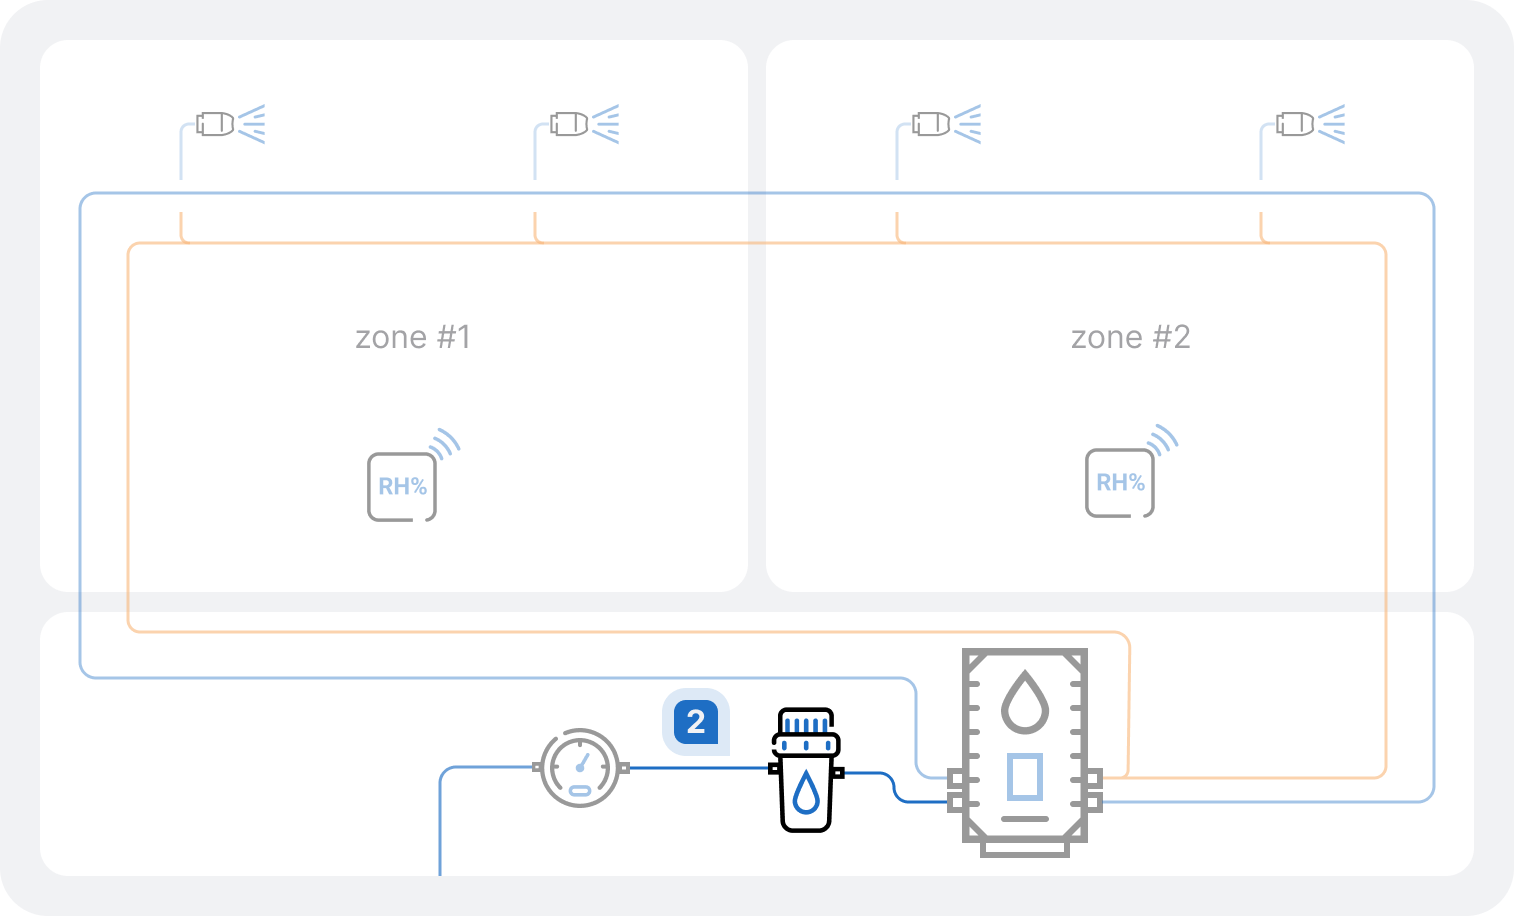
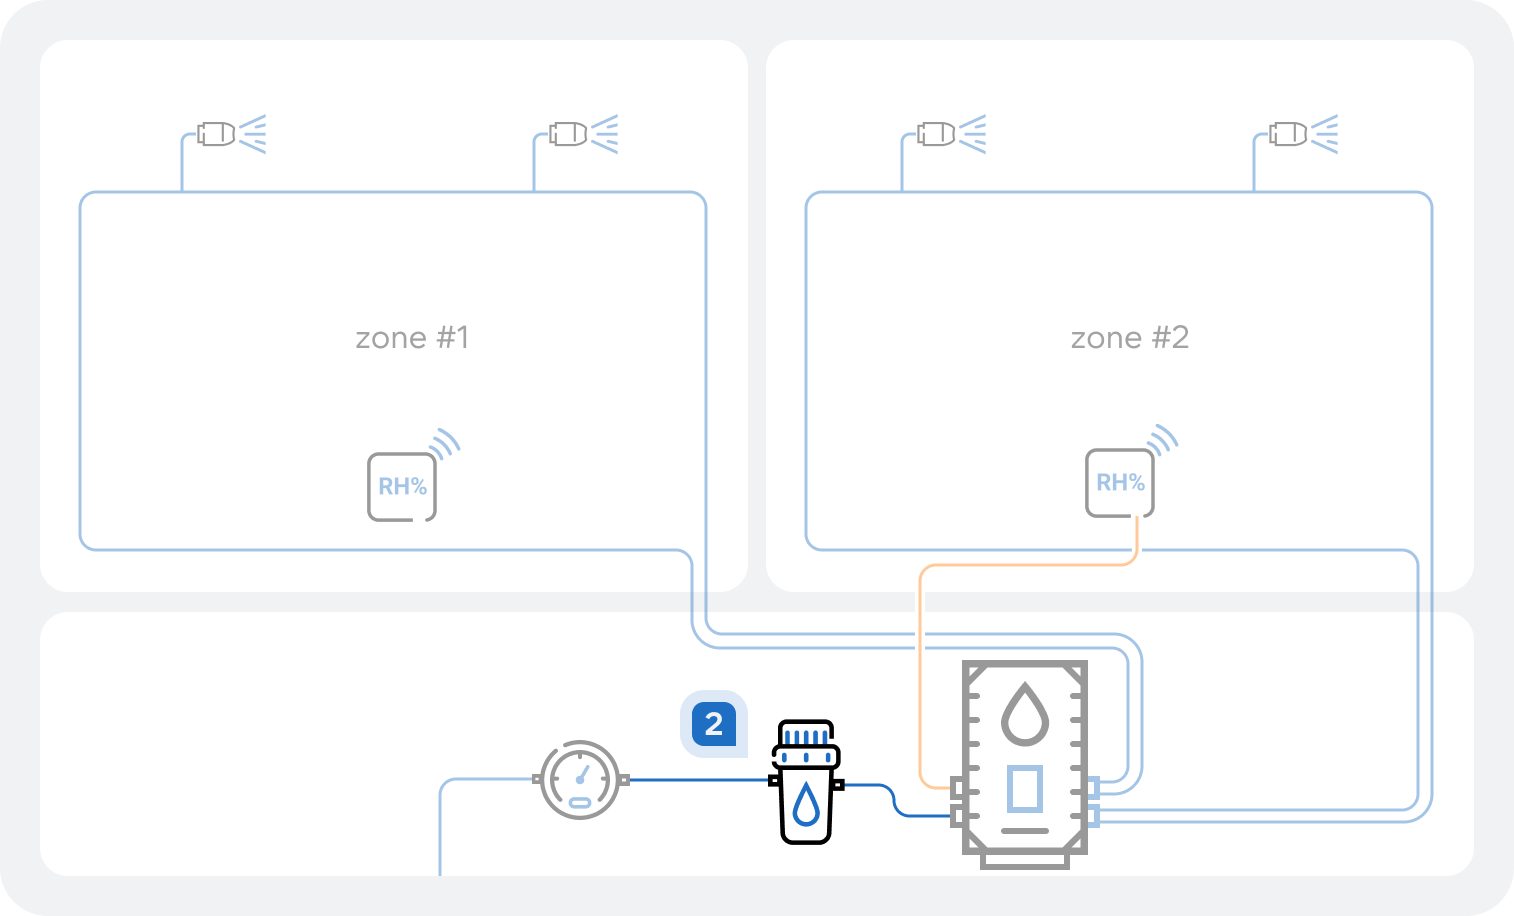
feat: change diagram info / remove component's forceUpdate method

Changed region(s): [[0.031, 0.214, 0.9624, 0.9476], [0.0621, 0.1223, 0.9313, 0.214], [0.0931, 0.2445, 0.9003, 0.2751]]

diff --git a/components/widgets/diagram/model/mock-data.ts b/components/widgets/diagram/model/mock-data.ts
@@ -5,7 +5,7 @@ export const DiagramFirstData = [
     description:
       '<p>Water is supplied automatically from the water supply.</p>',
     title: '<h3></h3>',
-    image: '/images/system/diagram1.png'
+    image: '/images/system/diagram1-1.png'
   },
   {
     id: 2,
@@ -13,7 +13,7 @@ export const DiagramFirstData = [
     description:
       '<p>First of all, water passes through pre-filtration (sediment, microcarbon and ultrafilter), which allows to purify water from mechanical and chemical impurities. </p>',
     title: '<h3></h3>',
-    image: '/images/system/diagram2.png'
+    image: '/images/system/diagram1-2.png'
   },
   {
     id: 3,
@@ -21,7 +21,7 @@ export const DiagramFirstData = [
     description:
       '<p>The heart of the system. Here water is finely purified by a double reverse osmosis and disinfected in a volumetric UV sterilization tank. Then purified water is then injected under high pressure by a silent pump into the high-pressure hoseline. In addition, the central module has a controller that coordinates the operation of the nozzles and control units.</p>',
     title: '<h3></h3>',
-    image: '/images/system/diagram3.png'
+    image: '/images/system/diagram1-3.png'
   },
   {
     id: 4,
@@ -29,7 +29,7 @@ export const DiagramFirstData = [
     description:
       '<p>The high-pressure hoseline is designed as a loop. It consists of a double-layer hose (inner layer material made of PTFE, outer layer is a stainless steel braiding), high-pressure fittings and tees. The operational pressure in the system ranges between 35 - 82 bar, while the burst pressure of the hose is 900 bar, in other words, it has a 15 times safety margin. The material of the inner layer is not accidentally chosen, PTFE has exceptional low adhesion and is not a food for bacteria.</p>',
     title: '<h3></h3>',
-    image: '/images/system/diagram4.png'
+    image: '/images/system/diagram1-4.png'
   },
   {
     id: 5,
@@ -37,7 +37,7 @@ export const DiagramFirstData = [
     description:
       '<p>SV noiseless valves are powered by a low-voltage cable. Each cable from its own valve is led to the controller installed in the central module.</p>',
     title: '<h3></h3>',
-    image: '/images/system/diagram5.png'
+    image: '/images/system/diagram1-5.png'
   },
   {
     id: 6,
@@ -45,7 +45,7 @@ export const DiagramFirstData = [
     description:
       '<p>Liechty control units can be either wired or wireless. All control units are equipped with humidity sensor of high accuracy, which measures RH level in the room and gives a command to switch on the nozzles in case the RH level is lower than the set one and vice versa.</p>',
     title: '<h3></h3>',
-    image: '/images/system/diagram6.png'
+    image: '/images/system/diagram1-6.png'
   },
   {
     id: 7,
@@ -53,7 +53,14 @@ export const DiagramFirstData = [
     description:
       '<p>The nozzle heads are installed directly into the room through ventilation grilles, walls or ceiling and atomize a fog into the room. Microdroplets instantly dissolve into the air, increasing RH level. The miniature nozzle heads do not spoil the interior design.</p>',
     title: '<h3></h3>',
-    image: '/images/system/diagram7.png'
+    image: '/images/system/diagram1-7.png'
+  },
+  {
+    id: 8,
+    name: 'Cable to wired control system',
+    description: '<p></p>',
+    title: '<h3></h3>',
+    image: '/images/system/diagram1-8.png'
   }
 ]
 
@@ -92,25 +99,24 @@ export const DiagramSecondData = [
   },
   {
     id: 5,
-    name: 'Signal cable to SV noiseless valves',
+    name: 'Control units',
     description:
-      '<p>SV noiseless valves are powered by a low-voltage cable. Each cable from its own valve is led to the controller installed in the central module.</p>',
+      '<p>Liechty control units can be either wired or wireless. All control units are equipped with humidity sensor of high accuracy, which measures RH level in the room and gives a command to switch on the nozzles in case the RH level is lower than the set one and vice versa.</p>',
     title: '<h3></h3>',
     image: '/images/system/diagram2-5.png'
   },
   {
     id: 6,
-    name: 'Control units',
+    name: 'Miniature nozzles',
     description:
-      '<p>Liechty control units can be either wired or wireless. All control units are equipped with humidity sensor of high accuracy, which measures RH level in the room and gives a command to switch on the nozzles in case the RH level is lower than the set one and vice versa.</p>',
+      '<p>The nozzle heads are installed directly into the room through ventilation grilles, walls or ceiling and atomize a fog into the room. Microdroplets instantly dissolve into the air, increasing RH level. The miniature nozzle heads do not spoil the interior design.</p>',
     title: '<h3></h3>',
     image: '/images/system/diagram2-6.png'
   },
   {
     id: 7,
-    name: 'Miniature nozzles',
-    description:
-      '<p>The nozzle heads are installed directly into the room through ventilation grilles, walls or ceiling and atomize a fog into the room. Microdroplets instantly dissolve into the air, increasing RH level. The miniature nozzle heads do not spoil the interior design.</p>',
+    name: 'Cable to wired control unit',
+    description: '<p></p>',
     title: '<h3></h3>',
     image: '/images/system/diagram2-7.png'
   }

diff --git a/components/widgets/diagram/ui/DiagramConfig.vue b/components/widgets/diagram/ui/DiagramConfig.vue
@@ -1,6 +1,7 @@
 <script setup lang="ts">
-import { computed, getCurrentInstance, ref } from 'vue'
+import { computed, ref } from 'vue'
 
+// import { getCurrentInstance } from 'vue'
 import { DIAGRAMS, DIAGRAMS_TYPES } from '../model/constants'
 import DiagramCanvas from './DiagramCanvas.vue'
 import DiagramControls from './DiagramControls.vue'
@@ -14,14 +15,14 @@ const props = withDefaults(defineProps<Props>(), {
   diagramType: DIAGRAMS_TYPES.FIRST
 })
 
-const instance = getCurrentInstance()
+// const instance = getCurrentInstance()
 
 watch(
   () => props.diagramType,
   () => {
     if (props.diagramType) {
       currentTabId.value = usedDiagramData.value[0]?.id
-      instance?.proxy?.$forceUpdate()
+      // instance?.proxy?.$forceUpdate()
     }
   }
 )
